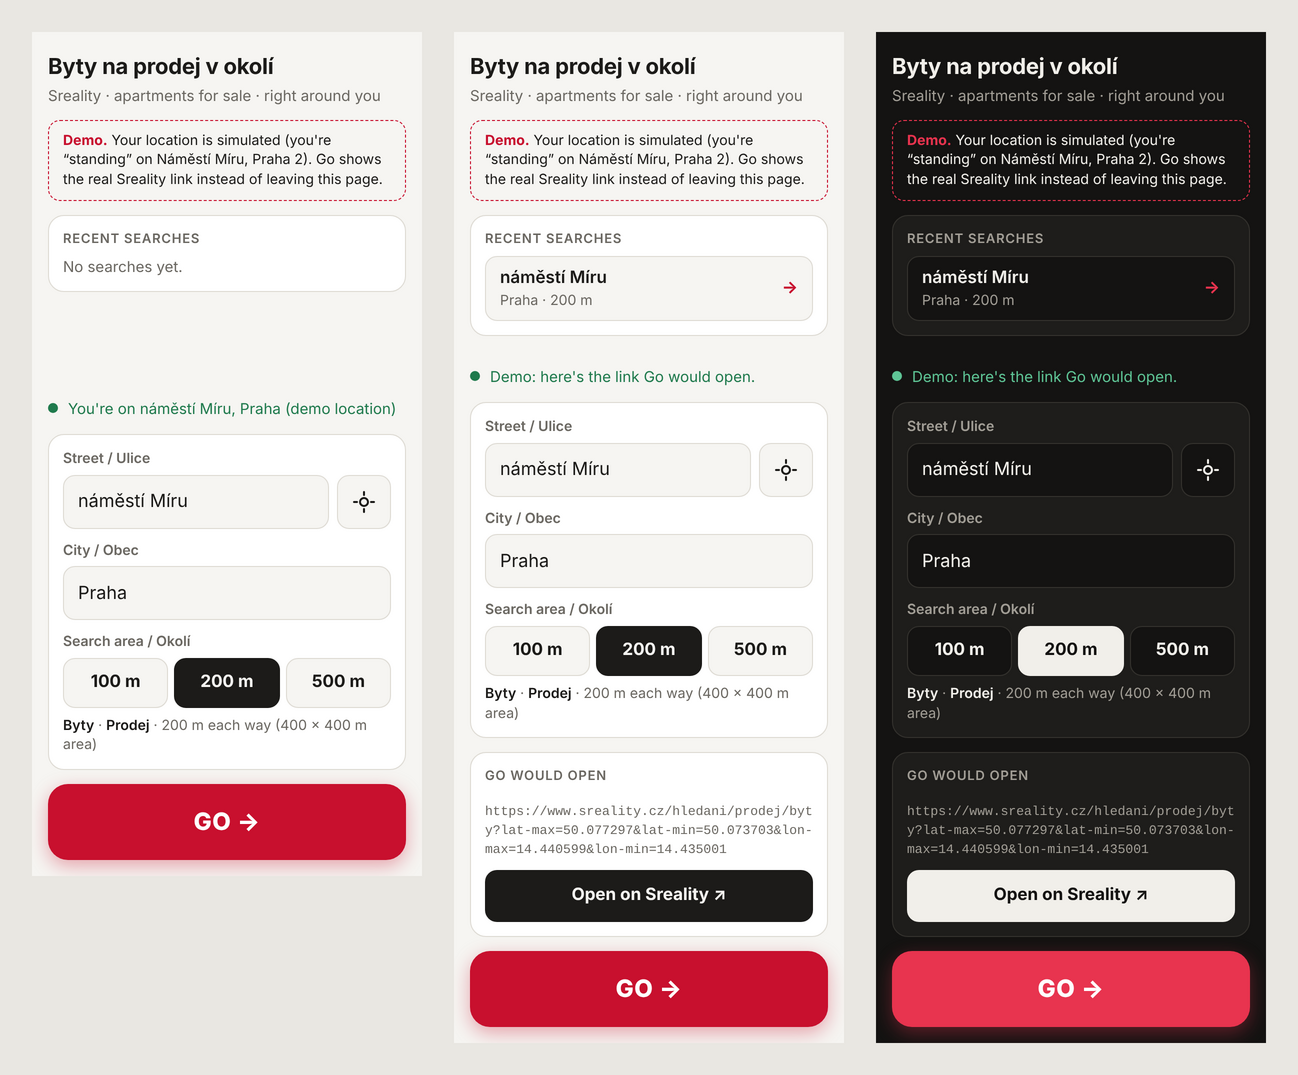
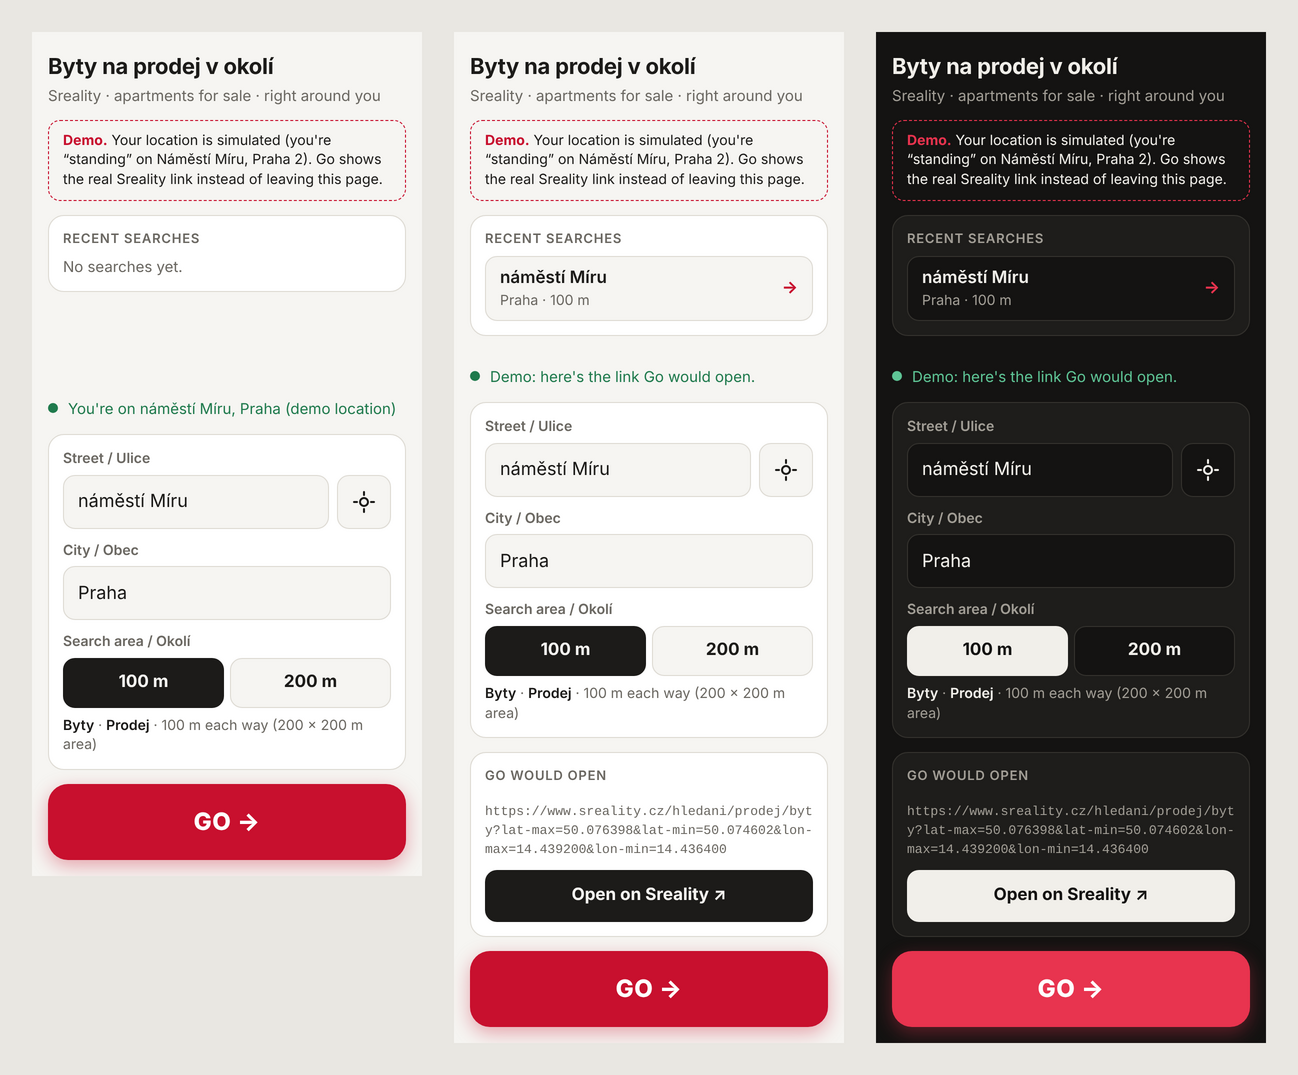
Offer 100 m (default) and 200 m only
Drops the 500 m option. A saved 500 m setting falls back to 100 m, and
old 500 m recent searches repeat at 200 m. Refreshes screenshots and GIF.

Claude-Session: https://claude.ai/code/session_01Mkiy5eoQtwnw3nZToGtfhw

diff --git a/index.html b/index.html
@@ -20,6 +20,7 @@
     /prodej  = for sale      (/pronajem = rent)
     /byty    = apartments    (/domy = houses)
 
+    Sizes offered: 100 m (default) and 200 m; change SIZES in the script.
     The box is a square: "200 m" means 200 m north, south, east and west of the
     centre (so 400 m × 400 m). 1° latitude ≈ 111.32 km; 1° longitude ≈
     111.32 km × cos(latitude), about 71.4 km in Prague.
@@ -172,7 +173,7 @@
   .icon-btn svg { width: 24px; height: 24px; }
 
   /* Box size: three big segments */
-  .sizes { display: grid; grid-template-columns: repeat(3, 1fr); gap: 6px; border: 0; margin: 0; padding: 0; }
+  .sizes { display: grid; grid-template-columns: repeat(2, 1fr); gap: 6px; border: 0; margin: 0; padding: 0; }
   .sizes input { position: absolute; opacity: 0; pointer-events: none; }
   .sizes label {
     margin: 0; min-height: 50px; border-radius: 12px; border: 1px solid var(--line);
@@ -260,7 +261,6 @@
         <fieldset class="sizes" aria-labelledby="size-label">
           <input type="radio" name="size" id="size-100" value="100"><label for="size-100">100 m</label>
           <input type="radio" name="size" id="size-200" value="200"><label for="size-200">200 m</label>
-          <input type="radio" name="size" id="size-500" value="500"><label for="size-500">500 m</label>
         </fieldset>
         <p class="hint" id="size-hint"></p>
       </div>
@@ -288,8 +288,8 @@
   /* ---------- Settings ---------- */
   var SREALITY_SEARCH = "https://www.sreality.cz/hledani/prodej/byty";
   var NOMINATIM = "https://nominatim.openstreetmap.org";
-  var SIZES = [100, 200, 500];   // metres from the centre to each edge of the box
-  var DEFAULT_SIZE = 200;
+  var SIZES = [100, 200];        // metres from the centre to each edge of the box
+  var DEFAULT_SIZE = 100;
   var RECENT_KEY = "apartmentLookup.recent.v2";
   var SIZE_KEY = "apartmentLookup.radius.v1";
   var MAX_RECENT = 5;
@@ -455,19 +455,21 @@
     ul.textContent = "";
     $("recent-empty").hidden = list.length > 0;
     list.forEach(function (r) {
+      // Searches saved with a size no longer offered (e.g. 500 m) repeat at the largest one.
+      var size = SIZES.indexOf(r.size) === -1 ? SIZES[SIZES.length - 1] : r.size;
       var li = document.createElement("li");
       var b = document.createElement("button");
       b.type = "button";
       var text = document.createElement("span");
       var main = document.createElement("div"); main.className = "r-main"; main.textContent = r.street || "My location";
       var sub = document.createElement("div"); sub.className = "r-sub";
-      sub.textContent = r.city + " · " + r.size + " m";
+      sub.textContent = r.city + " · " + size + " m";
       text.appendChild(main); text.appendChild(sub);
       var go = document.createElement("span"); go.className = "r-go"; go.textContent = "→";
       b.appendChild(text); b.appendChild(go);
       b.addEventListener("click", function () {
-        addRecent(Object.assign({}, r, { ts: Date.now() }));
-        openUrl(buildSrealityUrl(r.lat, r.lon, r.size));
+        addRecent(Object.assign({}, r, { size: size, ts: Date.now() }));
+        openUrl(buildSrealityUrl(r.lat, r.lon, size));
       });
       li.appendChild(b);
       ul.appendChild(li);

diff --git a/README.md b/README.md
@@ -1,6 +1,6 @@
 # Byty v okolí: Apartment Lookup
 
-One tap from where you're standing to **Sreality apartments for sale right around you**: 100, 200 or 500 m.
+One tap from where you're standing to **Sreality apartments for sale right around you**: 100 or 200 m.
 It's a single HTML file, [`index.html`](index.html), with no framework, no build step and no server code.
 
 <p align="center">
@@ -19,13 +19,13 @@ The live demo is private until you share it from its Share menu.
 
 ## Screens
 
-![Start screen with the street filled in from location and 200 m chosen; result after Go, in light and dark mode](docs/screens.png)
+![Start screen with the street filled in from location and 100 m chosen; result after Go, in light and dark mode](docs/screens.png)
 
 ## How it works
 
 1. **Where you are.** The phone's GPS gives your position, and [OpenStreetMap Nominatim](https://nominatim.openstreetmap.org) names the street and city. Both fields stay editable, and the city defaults to *Praha*.
 2. **Typed street.** If you type a different street, OpenStreetMap finds its coordinates. With GPS on, the match nearest to you wins.
-3. **Size.** Choose 100, 200 or 500 m each way from the centre. The page remembers your choice.
+3. **Size.** Choose 100 m (the default) or 200 m each way from the centre. The page remembers your choice.
 4. **Go.** The page opens Sreality with that square as a map area:
    ```
    https://www.sreality.cz/hledani/prodej/byty?lat-max=<north>&lat-min=<south>&lon-max=<east>&lon-min=<west>
